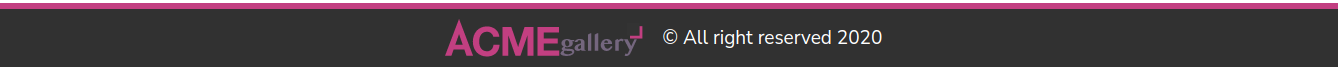
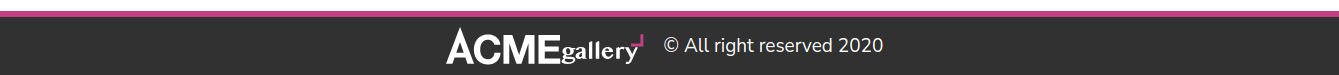
[update: files] update components and fix small UI details

Changed region(s): [[0.0, 0.0299, 1.0, 0.2388], [0.3064, 0.3582, 0.6741, 0.8657]]

diff --git a/src/components/icons/IconGallery.jsx b/src/components/icons/IconGallery.jsx
@@ -1,0 +1,16 @@
+function IconGallery({ className }) {
+  return (
+    <svg
+      className={`icon-gallery ${className ?? ''}`}
+      width="77"
+      height="24"
+      viewBox="0 0 77 24"
+      fill="none"
+      xmlns="http://www.w3.org/2000/svg"
+    >
+      <path d="M14.2709 6.99744V8.1991H12.1708C12.3505 8.4836 12.5002 8.79057 12.62 9.12C12.7398 9.44942 12.7997 9.80505 12.7997 10.1869C12.7997 10.8233 12.6537 11.3923 12.3617 11.8939C12.0772 12.3881 11.6729 12.8073 11.1488 13.1517C10.6322 13.4961 10.0108 13.7582 9.28455 13.9379C8.55831 14.1176 7.7572 14.2074 6.88123 14.2074C6.62667 14.2074 6.36462 14.1924 6.09509 14.1625C5.83305 14.125 5.59347 14.0876 5.37634 14.0502C5.21912 14.1625 5.09558 14.3234 5.00574 14.5331C4.91589 14.7352 4.87097 14.9336 4.87097 15.1283C4.87097 15.1882 4.88595 15.2443 4.91589 15.2968C4.95333 15.3417 5.03194 15.3866 5.15173 15.4315C5.27153 15.4764 5.44373 15.5176 5.66833 15.5551C5.90043 15.5925 6.21488 15.6299 6.61169 15.6674C7.0085 15.7048 7.4989 15.7422 8.08289 15.7797C8.67436 15.8096 9.38562 15.8396 10.2167 15.8695C10.9803 15.8995 11.6205 15.9856 12.1371 16.1278C12.6537 16.2701 13.0692 16.4572 13.3837 16.6893C13.7056 16.9139 13.934 17.1797 14.0687 17.4867C14.2035 17.7937 14.2709 18.1268 14.2709 18.4862C14.2709 19.1301 14.0987 19.7216 13.7543 20.2606C13.4174 20.8072 12.927 21.2788 12.2831 21.6757C11.6392 22.0725 10.8568 22.3794 9.93591 22.5966C9.01501 22.8212 7.97058 22.9335 6.80261 22.9335C5.75444 22.9335 4.83728 22.8661 4.05115 22.7313C3.2725 22.5966 2.62113 22.4131 2.09705 22.181C1.57296 21.9564 1.17989 21.6869 0.917847 21.3724C0.655802 21.0655 0.52478 20.736 0.52478 20.3842C0.52478 20.1296 0.59965 19.8713 0.74939 19.6093C0.899129 19.3472 1.09379 19.0852 1.33337 18.8231C1.58044 18.5686 1.85372 18.314 2.1532 18.0594C2.46016 17.8124 2.77087 17.5728 3.08533 17.3407C2.63611 17.191 2.27673 17.0038 2.0072 16.7792C1.74516 16.5546 1.61414 16.3 1.61414 16.0155C1.61414 15.8134 1.67403 15.6 1.79382 15.3754C1.9211 15.1508 2.08582 14.9299 2.28796 14.7128C2.4976 14.4882 2.74093 14.2785 3.01794 14.0839C3.30245 13.8892 3.60193 13.7207 3.91638 13.5785C3.54203 13.4063 3.20138 13.2191 2.89441 13.017C2.59493 12.8073 2.34037 12.5715 2.13074 12.3094C1.9211 12.0474 1.76013 11.7517 1.64783 11.4222C1.53552 11.0928 1.47937 10.7222 1.47937 10.3104C1.47937 9.65906 1.62162 9.06759 1.90613 8.53601C2.19812 7.99695 2.59867 7.54024 3.10779 7.16589C3.6169 6.78406 4.21212 6.49207 4.89343 6.28992C5.58223 6.08028 6.32719 5.97546 7.1283 5.97546C7.51013 5.97546 7.88448 6.00541 8.25134 6.06531C8.6182 6.11772 8.95886 6.19259 9.27332 6.28992C9.59526 6.38725 9.8835 6.49581 10.1381 6.6156C10.3926 6.73539 10.5948 6.86267 10.7445 6.99744H14.2709ZM9.78992 17.9471C9.27332 17.9471 8.75297 17.9397 8.22888 17.9247C7.71228 17.9097 7.22188 17.8872 6.75769 17.8573C6.2935 17.8348 5.87048 17.8049 5.48865 17.7675C5.10681 17.7375 4.79985 17.7076 4.56775 17.6776C4.44047 17.7749 4.32817 17.891 4.23083 18.0258C4.14099 18.168 4.06238 18.314 3.995 18.4637C3.9351 18.6135 3.88643 18.767 3.849 18.9242C3.81905 19.0814 3.80408 19.2312 3.80408 19.3734C3.80408 19.5905 3.88269 19.8077 4.03992 20.0248C4.20463 20.2419 4.44796 20.4366 4.7699 20.6088C5.09932 20.7885 5.50736 20.9344 5.99402 21.0468C6.48816 21.1591 7.06091 21.2152 7.71228 21.2152C8.41606 21.2152 9.04496 21.1516 9.599 21.0243C10.1605 20.897 10.6322 20.736 11.014 20.5414C11.4034 20.3542 11.6991 20.1446 11.9012 19.9125C12.1109 19.6879 12.2157 19.4745 12.2157 19.2723C12.2157 18.8456 11.9986 18.5162 11.5643 18.2841C11.1301 18.0594 10.5386 17.9471 9.78992 17.9471ZM7.28552 13.2977C7.54008 13.2977 7.78715 13.2266 8.02673 13.0844C8.26632 12.9421 8.4797 12.7512 8.66687 12.5116C8.85404 12.2645 9.00378 11.9875 9.11609 11.6805C9.22839 11.3661 9.28455 11.0404 9.28455 10.7035C9.28455 10.2094 9.22091 9.7489 9.09363 9.32214C8.96635 8.8879 8.79041 8.50981 8.5658 8.18787C8.34867 7.85844 8.09412 7.60014 7.80212 7.41296C7.51013 7.22579 7.19942 7.1322 6.87 7.1322C6.55554 7.1322 6.28601 7.20707 6.0614 7.35681C5.83679 7.50655 5.64962 7.7087 5.49988 7.96326C5.35763 8.21033 5.25281 8.50232 5.18542 8.83923C5.11804 9.17615 5.08435 9.53178 5.08435 9.90613C5.08435 10.3628 5.13676 10.7971 5.24158 11.2089C5.34639 11.6132 5.49613 11.9725 5.6908 12.287C5.88546 12.594 6.11755 12.841 6.38708 13.0282C6.65662 13.2079 6.9561 13.2977 7.28552 13.2977ZM20.9418 11.7704C20.6049 11.9126 20.2642 12.0848 19.9198 12.287C19.5754 12.4891 19.2647 12.7175 18.9877 12.972C18.7181 13.2191 18.4935 13.4961 18.3138 13.8031C18.1416 14.1026 18.0555 14.4245 18.0555 14.7689C18.0555 15.1508 18.1529 15.4502 18.3475 15.6674C18.5497 15.8845 18.8192 15.993 19.1561 15.993C19.4406 15.993 19.7214 15.9107 19.9984 15.746C20.2754 15.5738 20.5899 15.3529 20.9418 15.0834V11.7704ZM14.5629 9.12C14.6827 8.64083 14.8923 8.20658 15.1918 7.81726C15.4913 7.42045 15.8619 7.08728 16.3036 6.81775C16.7528 6.54073 17.2619 6.32735 17.8309 6.17761C18.4074 6.02787 19.0288 5.953 19.6952 5.953C20.5188 5.953 21.23 6.02787 21.829 6.17761C22.4279 6.32735 22.9183 6.54073 23.3002 6.81775C23.6895 7.08728 23.974 7.41671 24.1537 7.80603C24.3409 8.18787 24.4344 8.61837 24.4344 9.09753V15.6786C24.4344 16.1503 24.5804 16.5508 24.8724 16.8802C25.1644 17.2097 25.5762 17.483 26.1078 17.7001H21.975C21.8552 17.7001 21.7391 17.6664 21.6268 17.599C21.5145 17.5316 21.4135 17.4455 21.3236 17.3407C21.2338 17.2284 21.1552 17.1086 21.0878 16.9813C21.0204 16.854 20.9717 16.7305 20.9418 16.6107C20.7321 16.8054 20.5337 16.9851 20.3466 17.1498C20.1594 17.307 19.9535 17.4418 19.7289 17.5541C19.5043 17.6664 19.2535 17.7525 18.9764 17.8124C18.6994 17.8798 18.3663 17.9135 17.9769 17.9135C17.4454 17.9135 16.9662 17.8386 16.5394 17.6888C16.1202 17.5391 15.7608 17.3332 15.4613 17.0712C15.1693 16.8016 14.9447 16.4872 14.7875 16.1278C14.6302 15.7609 14.5516 15.3641 14.5516 14.9374C14.5516 14.2785 14.7351 13.7133 15.1019 13.2416C15.4688 12.7699 15.9517 12.3581 16.5507 12.0062C17.1571 11.6543 17.8422 11.3474 18.6058 11.0853C19.3695 10.8233 20.1482 10.5725 20.9418 10.3329V9.20984C20.9418 8.84298 20.9043 8.53227 20.8295 8.27771C20.7546 8.01567 20.6498 7.80603 20.515 7.6488C20.3802 7.48409 20.2155 7.36804 20.0209 7.30066C19.8337 7.22579 19.6241 7.18835 19.392 7.18835C19.1149 7.18835 18.8679 7.24076 18.6508 7.34558C18.4336 7.4504 18.2465 7.59265 18.0892 7.77234C17.932 7.95203 17.8047 8.15792 17.7074 8.39001C17.6101 8.62211 17.5389 8.86544 17.494 9.12H14.5629ZM31.3636 17.7001H27.8934V1.61804L30.3192 0.337769H31.3636V17.7001ZM38.1469 17.7001H34.6766V1.61804L37.1024 0.337769H38.1469V17.7001ZM46.6595 17.9584C45.8435 17.9584 45.076 17.8086 44.3573 17.5092C43.6385 17.2022 43.0134 16.7941 42.4818 16.285C41.9502 15.7684 41.5272 15.1732 41.2128 14.4994C40.9058 13.8181 40.7523 13.0993 40.7523 12.3431C40.7523 11.4372 40.8946 10.5987 41.1791 9.82751C41.4636 9.04887 41.8679 8.37504 42.392 7.80603C42.9161 7.23702 43.5412 6.79529 44.2675 6.48083C45.0012 6.15889 45.8173 5.99792 46.7157 5.99792C47.5168 5.99792 48.2505 6.1252 48.9169 6.37976C49.5832 6.63432 50.1522 6.98246 50.6239 7.42419C51.1031 7.86593 51.4737 8.38627 51.7357 8.98523C51.9978 9.58419 52.1288 10.2243 52.1288 10.9056H44.1664C44.1963 11.542 44.2899 12.1485 44.4471 12.725C44.6119 13.3015 44.829 13.8106 45.0985 14.2523C45.368 14.6866 45.6825 15.0347 46.0419 15.2968C46.4087 15.5513 46.813 15.6786 47.2548 15.6786C47.6366 15.6786 48.0109 15.6149 48.3778 15.4877C48.7522 15.3529 49.0966 15.1732 49.411 14.9486C49.7255 14.7165 49.9987 14.4507 50.2308 14.1512C50.4629 13.8443 50.6314 13.5149 50.7362 13.163L52.5106 13.4437C52.3309 14.0651 52.0427 14.6491 51.6459 15.1957C51.2566 15.7422 50.7961 16.2214 50.2645 16.6332C49.7404 17.045 49.1677 17.3706 48.5463 17.6102C47.9248 17.8423 47.2959 17.9584 46.6595 17.9584ZM48.1307 9.71521C48.1008 9.3783 48.0259 9.07133 47.9061 8.79431C47.7938 8.50981 47.6478 8.26648 47.4681 8.06433C47.2885 7.86218 47.0788 7.7087 46.8392 7.60388C46.5997 7.49158 46.3413 7.43542 46.0643 7.43542C45.8472 7.43542 45.6338 7.49158 45.4242 7.60388C45.2146 7.7087 45.0236 7.86218 44.8514 8.06433C44.6867 8.25899 44.5445 8.49858 44.4247 8.78308C44.3124 9.0601 44.2375 9.37081 44.2001 9.71521H48.1307ZM62.618 8.61462C62.4608 8.47986 62.3148 8.36381 62.1801 8.26648C62.0528 8.16915 61.9255 8.09054 61.7982 8.03064C61.6709 7.97074 61.5362 7.92957 61.3939 7.9071C61.2592 7.87716 61.1057 7.86218 60.9335 7.86218C60.6939 7.86218 60.458 7.90336 60.226 7.98572C59.9939 8.06059 59.7767 8.16915 59.5746 8.3114C59.3724 8.44617 59.189 8.60714 59.0243 8.79431C58.8671 8.974 58.7435 9.16866 58.6537 9.3783V17.7001H55.1722V7.24451L57.6093 5.96423L58.6537 7.08728C59.0355 6.69047 59.4585 6.37227 59.9227 6.13269C60.3944 5.89311 60.8885 5.77332 61.4052 5.77332C61.9068 5.77332 62.3597 5.87813 62.764 6.08777C63.1683 6.28992 63.5202 6.51453 63.8197 6.7616L62.618 8.61462ZM65.5492 20.4178C65.6241 20.4553 65.7214 20.5039 65.8412 20.5638C65.9685 20.6237 66.1032 20.6799 66.2455 20.7323C66.3952 20.7847 66.5524 20.8296 66.7172 20.8671C66.8819 20.9045 67.0466 20.9232 67.2113 20.9232C67.3461 20.9232 67.4808 20.8446 67.6156 20.6874C67.7504 20.5302 67.8776 20.3467 67.9974 20.1371C68.1172 19.9274 68.222 19.7178 68.3119 19.5082C68.4092 19.2985 68.4803 19.1451 68.5253 19.0477L69.5248 16.8802L63.9208 6.20007H67.6044L71.2318 13.0844L74.4437 6.20007H76.9032L70.5468 20.0472C70.3371 20.4965 70.0713 20.9045 69.7494 21.2714C69.4274 21.6382 69.0756 21.9489 68.6937 22.2035C68.3119 22.4655 67.9113 22.6677 67.4921 22.8099C67.0803 22.9522 66.6722 23.0233 66.2679 23.0233C65.931 23.0233 65.6203 22.9821 65.3358 22.8998C65.0513 22.8249 64.8042 22.7089 64.5946 22.5516L65.5492 20.4178Z" />
+    </svg>
+  )
+}
+
+export default IconGallery

diff --git a/src/components/icons/IconAcme.jsx b/src/components/icons/IconAcme.jsx
@@ -1,0 +1,16 @@
+function IconAcme({ className }) {
+  return (
+    <svg
+      className={`icon-acme ${className ?? ''}`}
+      width="115"
+      height="38"
+      viewBox="0 0 115 38"
+      fill="none"
+      xmlns="http://www.w3.org/2000/svg"
+    >
+      <path d="M10.266 25.753L14.01 15.205H14.091L17.714 25.753H10.266ZM14.01 -0.000976562L0 36.865H6.361L8.616 30.465H19.365L21.539 36.865H28.101L14.091 -0.000976562H14.01ZM48.271 17.782H54.39C54.2376 16.2288 53.773 14.7223 53.024 13.353C52.3294 12.1 51.3918 10.9982 50.266 10.112C49.1324 9.22922 47.8512 8.55443 46.482 8.11903C45.0309 7.65641 43.516 7.42558 41.993 7.43502C39.9536 7.40295 37.9303 7.80092 36.055 8.60302C34.3548 9.33931 32.8363 10.4387 31.606 11.824C30.3743 13.2313 29.4292 14.8655 28.824 16.635C28.1659 18.559 27.8392 20.5807 27.858 22.614C27.8412 24.6077 28.168 26.5893 28.824 28.472C29.4287 30.2169 30.3728 31.8248 31.602 33.203C32.839 34.5657 34.3569 35.6438 36.051 36.363C37.9298 37.1517 39.9517 37.5422 41.989 37.51C43.6473 37.529 45.296 37.2565 46.86 36.705C48.292 36.1942 49.6063 35.3997 50.724 34.369C51.8442 33.3222 52.747 32.0649 53.381 30.669C54.0753 29.1297 54.4976 27.4816 54.629 25.798H48.513C48.36 27.5265 47.6622 29.1617 46.52 30.468C45.9363 31.0708 45.2297 31.5409 44.4483 31.8465C43.6668 32.1521 42.8288 32.286 41.991 32.239C40.7327 32.2776 39.4855 31.9936 38.368 31.414C37.3991 30.886 36.5707 30.1337 35.952 29.22C35.3231 28.2815 34.8664 27.2386 34.603 26.14C34.3196 24.9872 34.1776 23.8042 34.18 22.617C34.1768 21.3833 34.3188 20.1535 34.603 18.953C34.861 17.8278 35.3179 16.7577 35.952 15.793C36.5661 14.8702 37.3952 14.1104 38.368 13.579C39.4855 12.9995 40.7327 12.7155 41.991 12.754C42.7522 12.751 43.5081 12.8803 44.225 13.136C44.9181 13.381 45.5646 13.7418 46.137 14.203C46.6926 14.6502 47.1689 15.1877 47.546 15.793C47.9225 16.3988 48.1694 17.076 48.271 17.782V17.782ZM57.45 8.12003V36.865H63.368V16.695H63.449L70.494 36.865H75.365L82.41 16.494H82.491V36.865H88.409V8.12003H79.509L73.152 27.887H73.071L66.348 8.12003H57.45ZM92.476 8.12003V36.865H114.297V31.547H98.797V24.502H112.724V19.59H98.798V13.43H113.976V8.11602L92.476 8.12003Z" />
+    </svg>
+  )
+}
+
+export default IconAcme

diff --git a/src/components/Logo.jsx b/src/components/Logo.jsx
@@ -1,15 +1,14 @@
-import IconLogo from '../img/icons/icon_acme.svg'
-import IconGallery from '../img/icons/icon_gallery.svg'
-import IconPinkLine from '../img/icons/icon_pink_line.svg'
-import IconWhiteLine from '../img/icons/icon_white_line.svg'
+import IconAcme from './icons/IconAcme'
+import IconGallery from './icons/IconGallery'
+import IconLine from './icons/IconLine'
 
 function Logo({ className }) {
   return (
-    <div className={`logo ${className}`}>
-      <img className="img-logo" src={IconLogo} alt="acme logo" />
-      <img className="img-gallery" src={IconGallery} alt="gallery logo" />
-      <img className="img-white-line" src={IconWhiteLine} alt="white line" />
-      <img className="img-pink-line" src={IconPinkLine} alt="pink line" />
+    <div className={`logo ${className ?? ''}`}>
+      <IconAcme />
+      <IconGallery />
+      <IconLine className="icon-white-line" />
+      <IconLine className="icon-pink-line" />
     </div>
   )
 }

diff --git a/src/scss/_general.scss b/src/scss/_general.scss
@@ -1,3 +1,4 @@
+@use 'variables' as v;
 @use 'mixins' as mx;
 
 .container-fluid {
@@ -17,22 +18,43 @@
 }
 
 .logo-container {
+  .logo.header-logo-container {
+    .icon-acme {
+      fill: v.$pinkColorMain;
+    }
+    .icon-gallery {
+      fill: v.$darkLight2;
+    }
+  }
+  .logo.footer-logo-container {
+    .icon-acme {
+      fill: #fff;
+    }
+    .icon-gallery {
+      fill: #fff;
+    }
+    .icon-white-line {
+      fill: v.$darkLight;
+    }
+  }
   .logo {
     display: flex;
     align-items: baseline;
     position: relative;
     padding-right: 0.6rem;
-    .img-white-line {
+    .icon-white-line {
       position: absolute;
-      top: 0.33rem;
+      top: 0.4rem;
       right: 0.3rem;
       z-index: 20;
+      fill: #fff;
     }
-    .img-pink-line {
+    .icon-pink-line {
       position: absolute;
       top: 0.7rem;
       right: 0;
       z-index: 10;
+      fill: v.$pinkColorMain;
     }
   }
 }

diff --git a/src/components/Card.jsx b/src/components/Card.jsx
@@ -2,13 +2,14 @@ import Bg from '../img/gallery/bg-viajes-mobile.jpg'
 import Profile from '../img/gallery/profile-02.jpg'
 
 function Card({ el }) {
+  const altText = el ?? 'img'
   return (
     <div className="card gallery-card">
-      <img src={Bg} className="card-img-top" alt={`viajes ${el}`} />
+      <img src={Bg} className="card-img-top" alt={`viajes ${altText}`} />
       <div className="card-body">
         <div className="info">
           <div className="author-img-container">
-            <img className="author-img" src={Profile} alt={`author ${el}`} />
+            <img className="author-img" src={Profile} alt={`author ${altText}`} />
           </div>
           <div className="card-info-author">
             <p className="author-name">Sam Jerremy</p>

diff --git a/src/components/icons/IconLine.jsx b/src/components/icons/IconLine.jsx
@@ -1,0 +1,16 @@
+function IconLine({ className }) {
+  return (
+    <svg
+      className={`icon-line ${className ?? ''}`}
+      width="13"
+      height="13"
+      viewBox="0 0 13 13"
+      fill="none"
+      xmlns="http://www.w3.org/2000/svg"
+    >
+      <path d="M12.392 12.5391V0.173096L0.0259676 0.173096V12.5391H12.392Z" />
+    </svg>
+  )
+}
+
+export default IconLine

diff --git a/src/scss/base/_footer.scss b/src/scss/base/_footer.scss
@@ -18,9 +18,6 @@
       @include mx.screen-max(768px) {
         display: none;
       }
-      .img-white-line {
-        filter: invert(80%);
-      }
     }
   }
   .footer-copyright {
